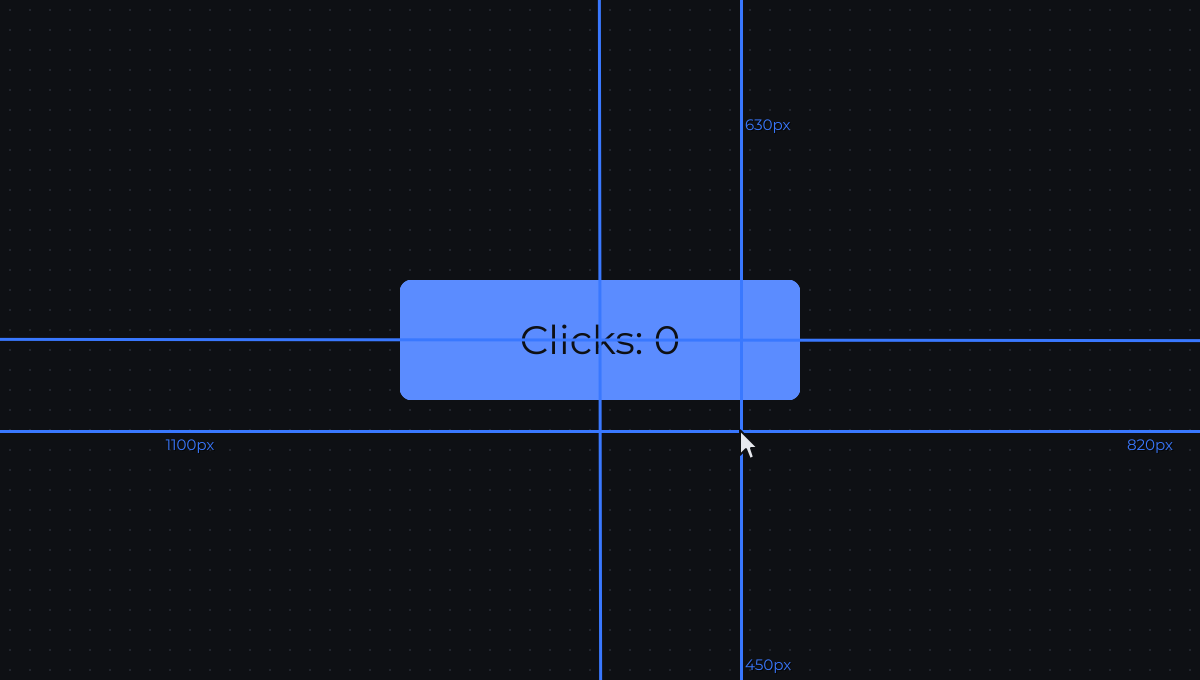
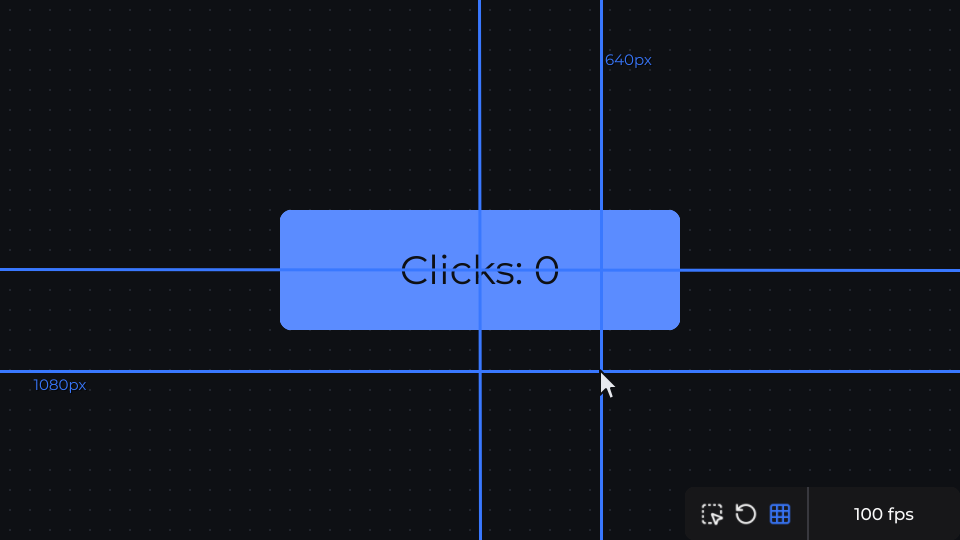
fix: readable dev grid film (🎥)

diff --git a/documentation/src/content/docs/use/get-started/dev-tools.md b/documentation/src/content/docs/use/get-started/dev-tools.md
@@ -76,7 +76,7 @@ A locked node shows where it is, what listens to it and what it holds: walk down
 
 <figure>
 
-![The middle of the canvas of the counter, crossed by two blue lines through the center of the canvas and by four blue lines from the pointer to the four edges, each labelled with its length in pixels; as the pointer moves, the lines and the four lengths follow it; a right click turns the grid red, a second one blue again](/captures/start-dev-grid.webp)
+![The middle of the canvas of the counter, drawn at twice its size, crossed by two blue lines through the center of the canvas and by four blue lines from the pointer to the four edges; each line is labelled with its length in pixels halfway along it, and the labels in view read 1070px to the right and 630px down; the pointer moves down and right, the lines follow it and the labels now in view read 1080px to the left and 640px up; a right click turns the grid red, a second one blue again](/captures/start-dev-grid.webp)
 
 <figcaption>
 The grid measures the canvas from the pointer: copy a position from a mockup and check it here, in the color that stands out on your UI.
